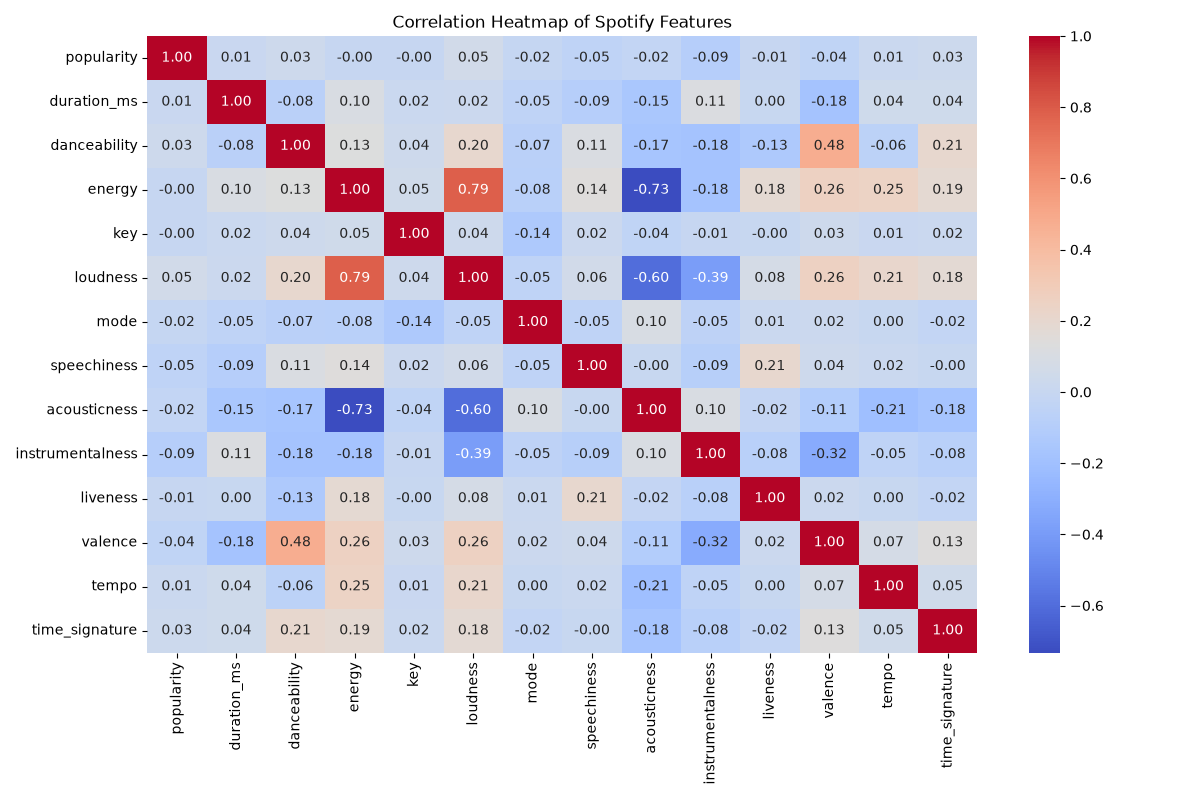
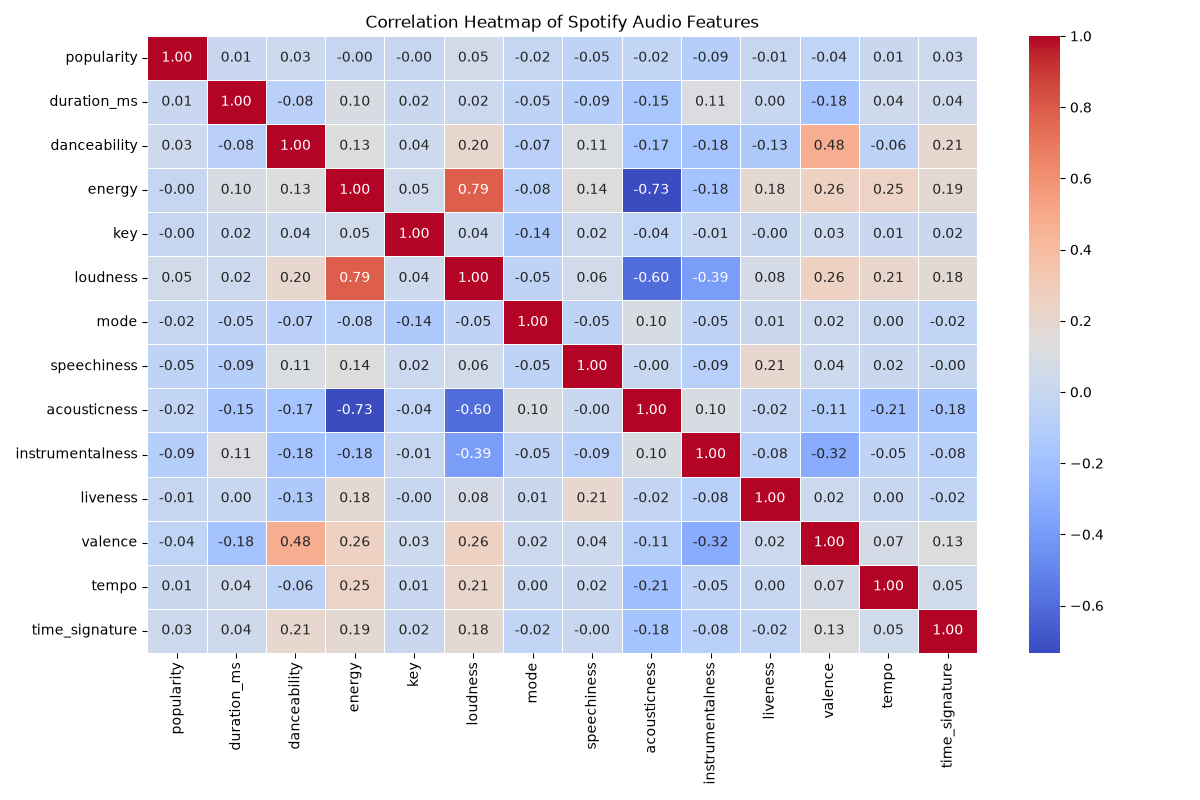
Complete correlation analysis and feature relationship insights

Changed region(s): [[0.3083, 0.0, 0.6167, 0.0625]]

diff --git a/trackx_eda.py b/trackx_eda.py
@@ -69,19 +69,23 @@ print("\nNumerical Features:")
 print(numeric_df.columns)
 
 correlation_matrix = numeric_df.corr()
-print(correlation_matrix)
+print(correlation_matrix["popularity"].sort_values(ascending=False))
 
-#Heatmap of the correlation matrix
+# ==========================================================
+# Correlation Heatmap
+# ==========================================================
+
 plt.figure(figsize=(12,8))
 
 sns.heatmap(
     correlation_matrix,
     annot=True,
     cmap="coolwarm",
-    fmt=".2f"
+    fmt=".2f",
+    linewidths=0.5
 )
 
-plt.title("Correlation Heatmap of Spotify Features")
+plt.title("Correlation Heatmap of Spotify Audio Features")
 
 plt.tight_layout()
 